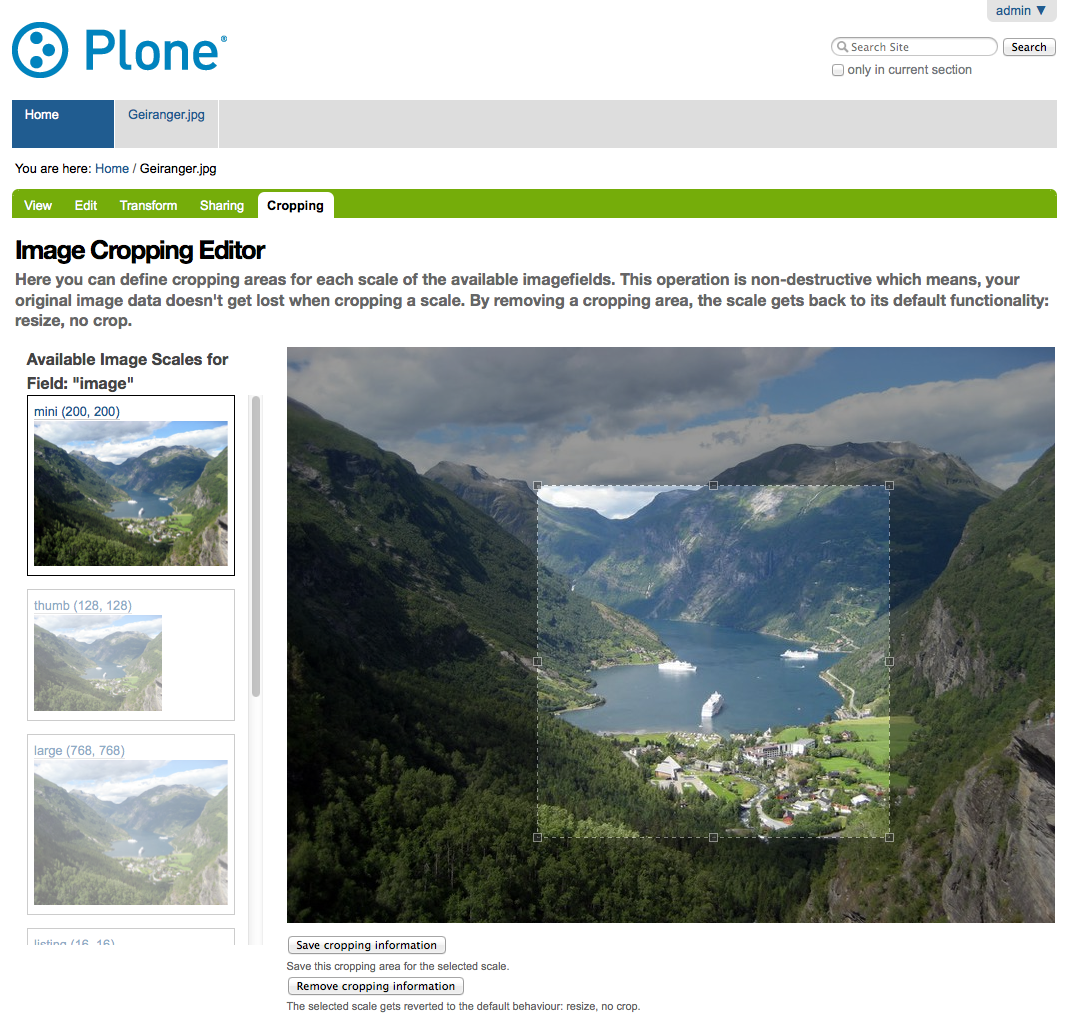
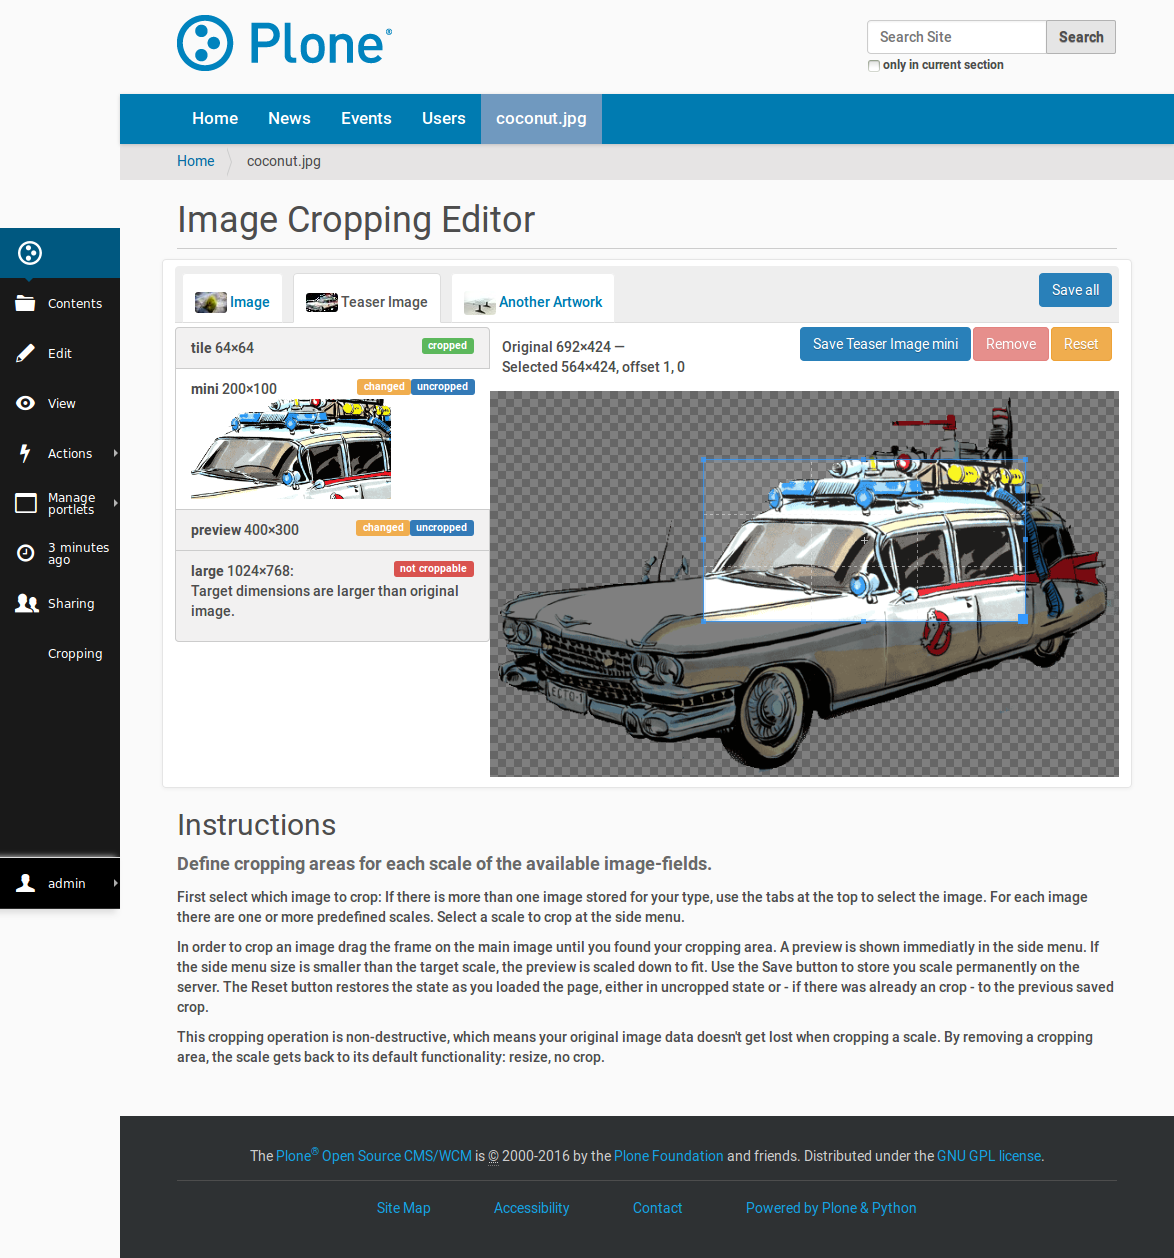
fix tests and new screenshot, doc improvements

diff --git a/TODO.rst b/TODO.rst
@@ -1,17 +1,5 @@
-spread the word
-===============
-
-xxx mention this package on:
-
-* http://stackoverflow.com/questions/11241031/cropping-images-instead-of-scaling-with-plone-and-archetypes
-* your planet-plone-blog
-* tweet
-* upload to pypi
-* product page on plone.org
-* the plip: http://dev.plone.org/plone/ticket/10174
-* inform author of branch https://github.com/plone/plone.app.imaging/tree/ggozad-cropping
-* inform people that attended the openspace (frisi has adresses)
-
+the follwoing needs checks if its still valid.
+if yes make it an github issue, if no remove from here:
 
 FIXME
 =====
@@ -25,81 +13,6 @@ If an image scale is added to TinyMCE it gets transformed to its uid
 representation (as stored in plone.scale.storage).
 If the cropped scale gets removed the uid does not exists anymore and
 the referenced image in TinyMCE raises NotFound exception.
-
-
-Implementation
-==============
-
-
-
-Cropping view
--------------
-
-
-**2 possible approaches**
-
-a) show a preview image for every scale with a link to choose cropping area with the editor
-b) show a dropdown with available scales, picture below
-
-b) preferred, more user friendly, not necessary to show a list of all scaled images (faster)
-
-
-The view has to care about all image fields defined on the context (for archetypes it's just iterating over the schema, dexterity iterates over all behaviours).
-Just one field: editor shows image directly.
-More fields: page to select image, editor on next page or in an overlay.
-even better: show the firs, have other in a preview column (think tabbed view)
-
-
-**Possible editor problems**
-
-* how to only store crops for scales the user really cared about
-  (extra apply button that just saves the currently edited scale)
-
-* shown full resolution image might be slow
-  configurable size for the preview might be a good idea
-  but showing downscaled version limits user in terms of precision of selecting a certain precise part of an image
-
-* removing scales has to be possible too
-
-* read cropping information from the field to mark the correct area if opened for an already cropped scale
-
-* tiny support:
-  the user should be able to change the crop via a link just below
-  the image scale selection in Tiny image plugin (could open a crop-editor in an overlay)
-  chosen scale selected as active one in the editor (others should not be available).
-  a toolbar button might be less work and we would not need to path/replace
-  the existing image plugin
-
-
-
-**Class croppingview**
-
-#this is used to display in JCrop
-INITIAL_SIZE = (1000,1000)
-
-@property
-def available_scales()
-{'fieldname1': {'scales': [('preview', 200, 200)],
-                 'thumb': 'we might use that in case multiple fields are there',
-                 'truesize' (5000,3450),
-                 'preview': 'picture url resized to INITIALSIZE to use in JCrop',
-                 'interface': 'optional.Interface',
-               },
-}
-
-
-
-
-
-This allows you to select a certain scale
-
-It fires up the cropping editor with the aspect ratio fixed to the ratio of the chosen scale.
-In case of a tile(16,16) the ratio would be 1:1.
-
-Apply button:
-We are going to store the cropped and resized version of the image as the plone.app.imaging traverser would do when we first access the image.
-
-
 
 
 plone.app.imagetransforms

diff --git a/CONTRIBUTORS.rst b/CONTRIBUTORS.rst
@@ -19,6 +19,9 @@ The basic concept of ``plone.app.imagecropping`` has already been implemented in
 
 .. _`Yiorgis's branch of plone.app.imaging`: https://github.com/plone/plone.app.imaging/tree/ggozad-cropping
 
+The library `cropper <https://github.com/fengyuanchen/cropper>`_ by Fengyuan Chen was published under MIT License and is used since plone.app.imagecropping Version 2.0 for the JS part to select a croppig area.
+
+
 Source Code
 -----------
 
@@ -29,4 +32,4 @@ The code is located in the
 `github collective <https://github.com/collective/plone.app.imagecropping>`_.
 
 You can clone it and send a pull request or `get access to the github-collective
-<http://collective.github.com/>`_ and work directly on the project.
+<http://collective.github.com/>`_ and work directly on a branch of the project.

diff --git a/CHANGES.rst b/CHANGES.rst
@@ -1,8 +1,18 @@
 Changelog
 =========
 
-1.4 (unreleased)
-----------------
+2.0b1 (unreleased)
+------------------
+
+- Run i18ndude and translated new/missing strings to German.
+  [jensens]
+
+- Use more modern cropper Javascript library, kick out JCrop and rewrite all JS.
+  It uses patterns now to initialize the cropper and image selections.
+  [jensens]
+
+- Code refactoring and big overhaul to make it work with Plone 5 (only) and the new JS.
+  [jensens]
 
 - Housekeeping: upgrades at one place, zca decorators, travis caching
   [jensens]
